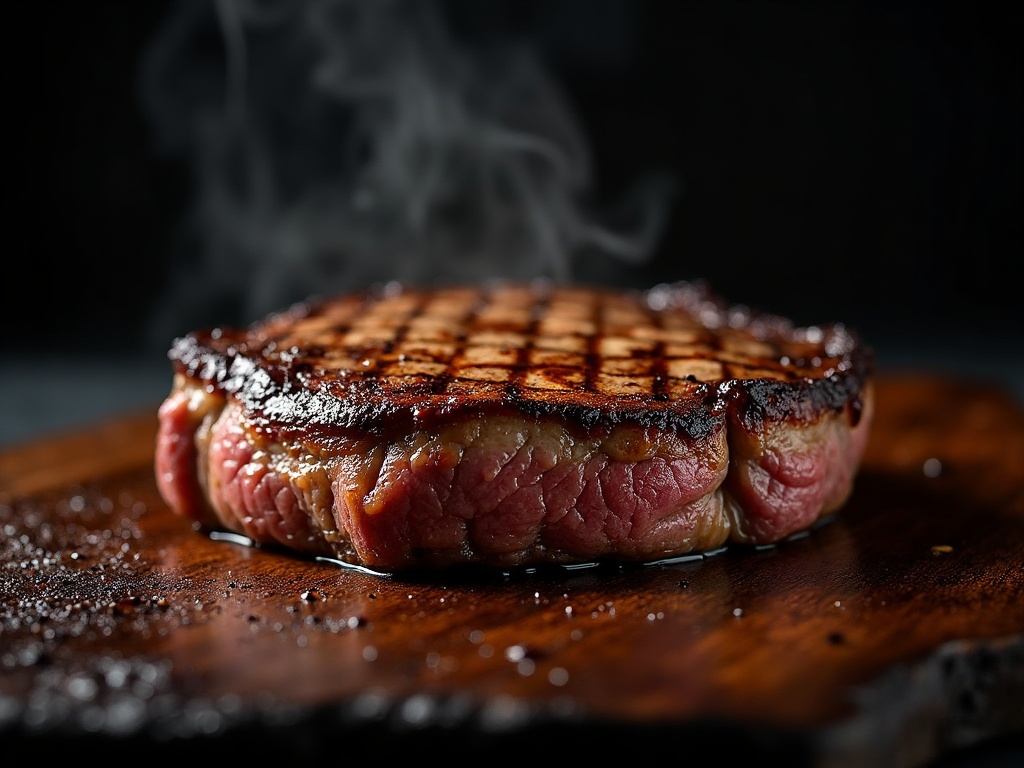
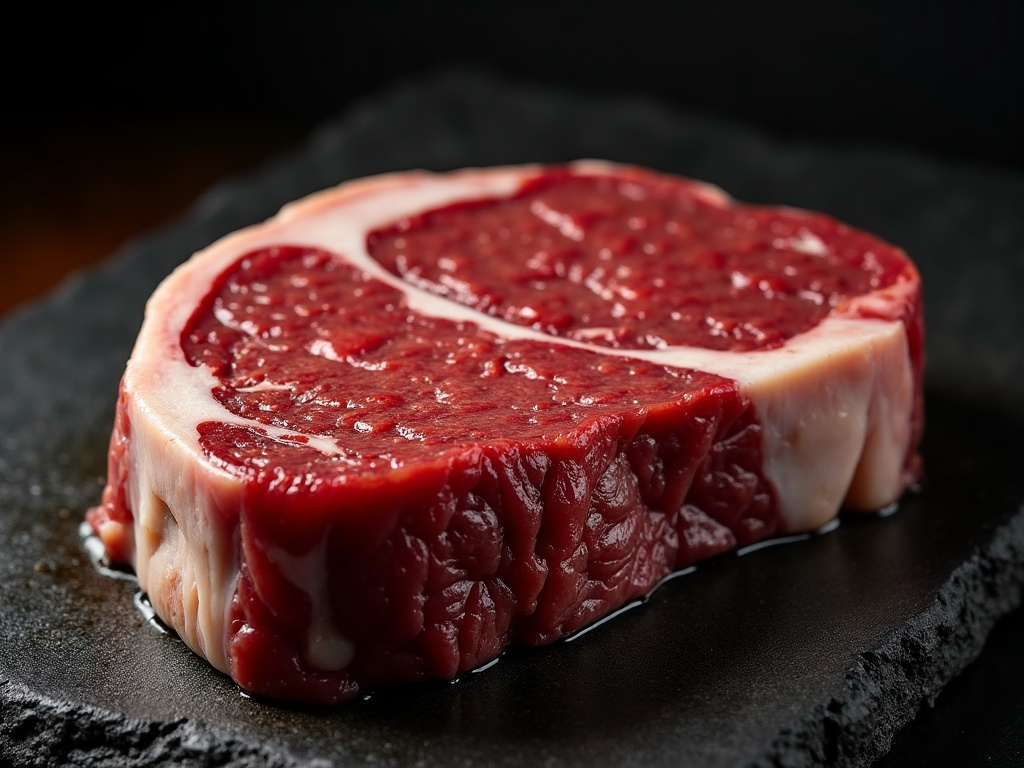
content(rezepte): korrekte Cut-Bilder via fal.ai + Beilagen-Hero
- Beilagen & Salate: Hero war ein Fleischbild → neues vegetarisches Beilagen-Büfett (fal.ai FLUX)
- Ribeye-Bild: war kein Ribeye → neues marmoriertes Ribeye mit Fettauge (fal.ai)
- Porterhouse-Bild: war knochenlos → neues mit sichtbarem T-Knochen (fal.ai, roh/bone-in)
- Alt-Texte an die rohen Cut-Bilder angepasst
- recipe-images.mjs: anatomische Cut-Prompts (CUT_ANATOMY) + --only Filter
- Bildgenerierung ausschließlich fal.ai (Higgsfield verbannt)

Build grün, 347 Seiten.

diff --git a/src/app/rezepte/[slug]/page.tsx b/src/app/rezepte/[slug]/page.tsx
@@ -19,14 +19,14 @@ const KATEGORIEN: Record<string, {
     subtitle:    'Master-Cuts',
     description: 'Präzise Rezepte für Premium-Cuts — Ribeye, Brisket, Tomahawk und mehr. Jedes Rezept mehrfach am Grill getestet, mit exakten Gramm- und Temperaturangaben.',
     heroImage:   '/images/rezepte/dry-aged-ribeye.jpg',
-    heroAlt:     'Dick gegrilltes Premium-Steak mit Grillmarkierung und rosa Kern, Rauch über dunklem Holzbrett',
+    heroAlt:     'Marmoriertes Premium-Ribeye mit ausgeprägtem Fettauge auf dunklem Schiefer',
   },
   beilagen: {
     label:       'Beilagen & Salate',
     subtitle:    'Das BBQ-Büfett',
     description: 'Das Büfett macht das Grillen vollständig. Von der knusprigen Grillkartoffel bis zum rauchigen Coleslaw — Beilagen, die eigenständig brillieren.',
-    heroImage:   '/images/Beilagen_zu_Steak_1800x1000_6c5b974a-f29a-492b-95fb-424e0c4624d3.webp',
-    heroAlt:     'BBQ-Beilagen und Salate auf dem Grilltisch',
+    heroImage:   '/images/beilagen-salate-hero.jpg',
+    heroAlt:     'BBQ-Beilagen-Büfett: Mac and Cheese in der Gusspfanne, Grillmais, Röstkartoffeln, Coleslaw und frische Salate',
   },
   'saucen-rubs': {
     label:       'Saucen, Rubs & Injektionen',
